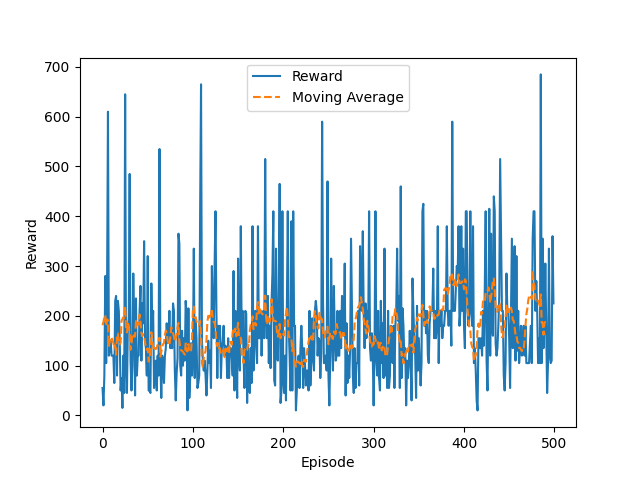
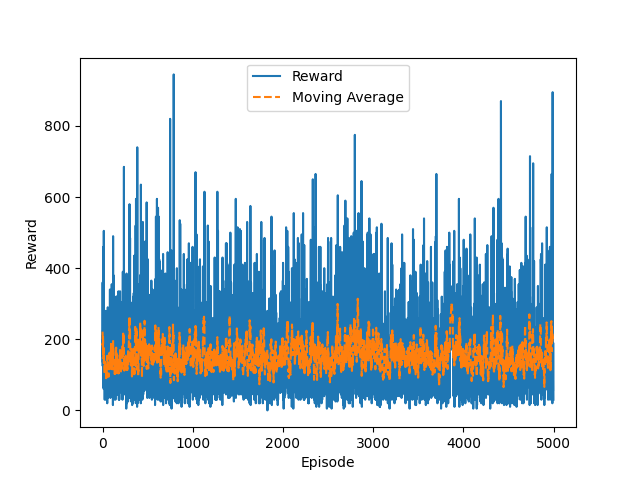
minor changes, final update for A2C

diff --git a/cartpole.py b/cartpole.py
@@ -19,8 +19,6 @@ class ActorCriticNet(nn.Module):
         self.fc3_1 = nn.Linear(64, 2)
         # Represents neural nets for value function approximation
         self.fc3_2 = nn.Linear(64, 1)
-        self.saved_actions = []
-        self.rewards = []
     
     def feed_forward(self, x):
         x = F.relu(self.fc1(x))

diff --git a/spaceinvaders_a2c.py b/spaceinvaders_a2c.py
@@ -132,7 +132,7 @@ def stack_frame(stacked_frames, frame, is_new):
     return stacked_frames
 
 def main():
-    num_episodes = 10000
+    num_episodes = 5000
     max_steps = 1000
     gamma = 0.99
     reward_threshold = 999
